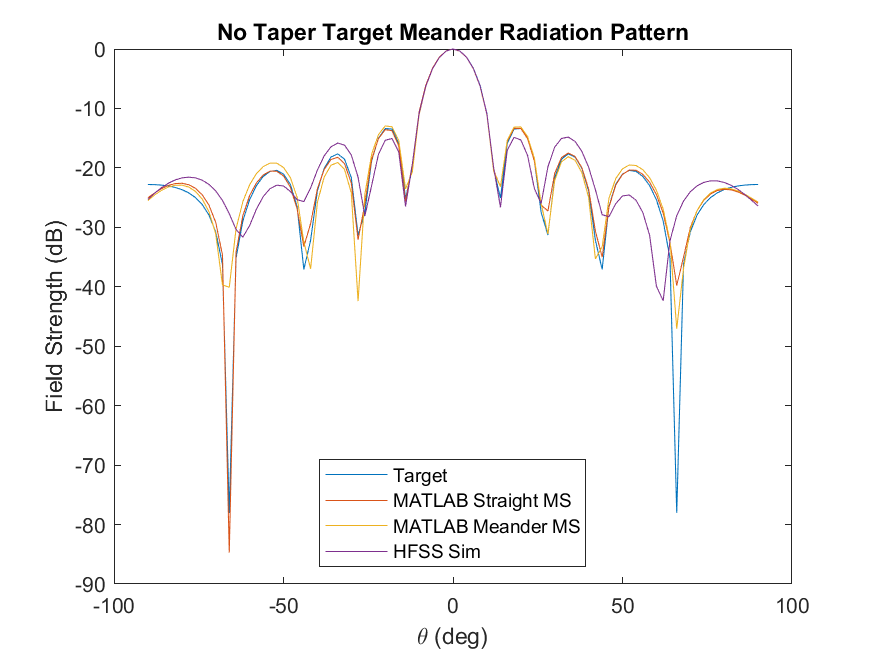
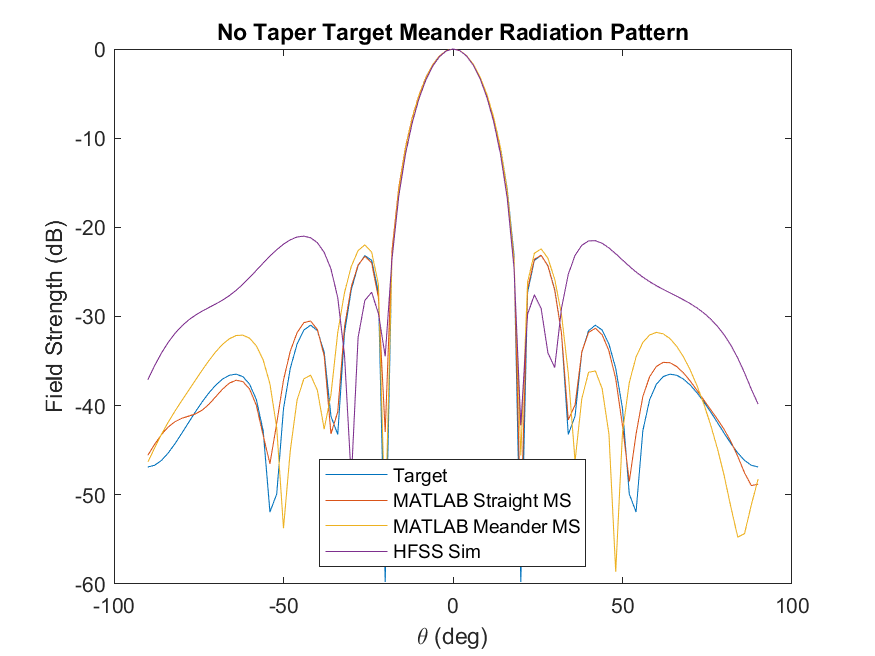
added code to test with cosine taper vals

diff --git a/rad_field_test_optim.m b/rad_field_test_optim.m
@@ -1,0 +1,76 @@
+% CONSTANTS
+Z_0 = 50; % Characteristic Impedance
+Z_targ = 50; % Target Input Impedance
+f = 1e10; % Operating Frequency
+w = 2*pi*f;
+e_0 = 8.8541878188e-12; % Permittivity of Free Space
+u_0 = 4*pi*1e-7; % Permeability of Free Space
+k = w*sqrt(u_0*e_0); % Wavenumber
+C_min = 0.14e-12; % Minimum Capacitance (F)
+X_min = -1 / (w*C_min);
+C_max = 1.1e-12; % Maximum Capacitance (F)
+X_max = -1 / (w*C_max);
+d = 0.00625; % Cell Length (m)
+I_E = 1;
+
+% Extract Element Patterns
+[Etheta,Ephi,~,~] = extractFields("element_patterns/straight_ms_10mm_3-5mm/straight_3-5mm","Phi-Theta");
+[Emtheta,Emphi,theta,phi] = extractFields("element_patterns/2mm_meander_10mm_width/meander_10mm_2mm","Phi-Theta");
+
+% DEFINING TARGET
+E_rl = zeros(1,91);
+E_targ = zeros(1,91);
+
+for n = 1:21
+    E_targ = E_targ + cos(pi*(n-11)/21)*exp(1i*(n-1)*k*d.*sind(theta));
+end
+% COSINE ELEMENT cos(pi*(n-11)/21)*
+E_targ = E_targ./max(E_targ);
+
+% Extract Z params
+[Zm_LL,Zm_LE,Zm_EL,Zm_EE] = extractParams("meander_array_zmatrix/UnitCell_Meander_Array_1D_Array_Meander_10mm_2mm.s21p",Z_0,21,11);
+
+% Define Z matrices
+x0 = 45.*ones(1,20);
+
+[Xs_mat,Z_LL,Z_LE,Z_EL,Z_EE,I_E] = optimSymOut("straight_ms_zmatrix/UnitCell_Meander_Array_1D_Array_Straight_ZMat_3-5mm_ms.s21p",Etheta,E_targ,x0,10,100,I_E,Z_0,21,11);
+Xval = -60;
+Cvals = -1 / (w*Xval) * 1e12 * ones(10,10);
+X_mat = mapLtoC(Xs_mat);
+X_mat = optimSymOut("meander_array_zmatrix/meander_zmat.s21p",Emtheta,E_targ,X_mat,X_min,X_max,I_E,Z_0,21,11);
+C_mat = -1 ./ (w*X_mat) .* 1e12;
+for i = 1:10
+    for j = 1:i
+        Cvals(i,j) = C_mat(j);
+    end
+end
+Cmat = flipHoriz(Cvals);
+Zmat = -1 ./ (w.*Cmat) * 1e12;
+
+% Find E fields
+Etot = zeros(10,91);
+for i = 1:10
+    [Etot(i,:),~,~] = forwardSolve(Zmat(i,:),Zm_LL,Zm_LE,Zm_EL,Zm_EE,I_E,Emtheta);
+end
+
+% Import HFSS Graph
+fields_data = readtable("test/test_fields.csv");
+fields_data_arr = table2array(fields_data);
+theta_vals = fields_data_arr(:,1);
+norm_vals = zeros(91,10);
+
+for i = 1:10
+    norm_vals(:,i) = fields_data_arr(:,12-i);
+end
+
+for i = 1:10
+    plot(theta,20.*log10(abs(Etot(i,:))))
+    hold on
+    plot(theta_vals,20.*log10(norm_vals(:,i)))
+    hold off
+    title("Radiation Pattern State "+i)
+    xlabel("\theta (deg)")
+    ylabel("Field Strength (dB)")
+    legend("MATLAB","HFSS Sim")
+    saveas(gcf,"figures/test_fields/optim_state"+i+".png")
+end

diff --git a/graph_fields.m b/graph_fields.m
@@ -21,7 +21,7 @@ E_rl = zeros(1,91);
 E_targ = zeros(1,91);
 
 for n = 1:21
-    E_targ = E_targ + exp(1i*(n-1)*k*d.*sind(theta));
+    E_targ = E_targ + cos(pi*(n-11)/21)*exp(1i*(n-1)*k*d.*sind(theta));
 end
 % COSINE ELEMENT cos(pi*(n-11)/21)*
 E_targ = E_targ./max(E_targ);
@@ -31,7 +31,7 @@ I_E = 1;
 % [X_L,Z_LL,Z_LE,Z_EL,Z_EE] = loadMat("straight_ms_zmatrix/UnitCell_Meander_Array_1D_Array_Straight_ZMat_3-5mm_ms.s21p", Z_0, Z_targ, f, 10, 100, 21, 11, 0);
 
 %% OPTIMZING FOR LOAD
-x0 = 50.*ones(1,20);
+x0 = 45.*ones(1,20);
 
 [Xs_mat,Z_LL,Z_LE,Z_EL,Z_EE,I_E] = optimSymOut("straight_ms_zmatrix/UnitCell_Meander_Array_1D_Array_Straight_ZMat_3-5mm_ms.s21p",Etheta,E_targ,x0,10,100,I_E,Z_0,21,11);
 [Zm_LL,Zm_LE,Zm_EL,Zm_EE] = extractParams("meander_array_zmatrix/UnitCell_Meander_Array_1D_Array_Meander_10mm_2mm.s21p",Z_0,21,11);
@@ -43,7 +43,7 @@ Cm_mat = -1 ./ (w*Xm_mat) .* 1e12;
 % Xm_mat = zeros(1,20);
 
 %% IMPORT HFSS GRAPH
-fields_data = readtable("sym_const/meander_2mm_sym.csv");
+fields_data = readtable("sym_cos/meander_2mm_cos.csv");
 fields_data_arr = table2array(fields_data);
 theta_vals = fields_data_arr(:,3);
 norm_vals = fields_data_arr(:,4);

diff --git a/export_Cvals.m b/export_Cvals.m
@@ -1,3 +1,10 @@
+% Precalc
+X = 60;
+f = 1e10;
+w = 2*pi*f;
+C = 1 / (w*X);
+
+
 % 1. Open the script file
 vbsFile = 'UpdateCapsDirect.vbs';
 fid = fopen(vbsFile, 'w');
@@ -9,12 +16,14 @@ fprintf(fid, 'Set oProject = oDesktop.GetActiveProject()\n'); % Grabs your open 
 fprintf(fid, 'Set oDesign = oProject.GetActiveDesign()\n');   % Grabs your active window
 
 % 3. Loop through and assign variables directly to that active window
-for i = 1:length(Cm_mat)
+for i = 1:length(C_mat)/2
     varName = sprintf('C%d', i);
-    varValue = sprintf('%gpf', Cm_mat(i)); 
+    varName2 = sprintf('C%d', 21-i);
+    varValue = sprintf('if(State >= %d, %gpf, %gpf)', i, C_mat(i), C); 
     
     % This command targets the selected local design properties explicitly
     fprintf(fid, 'oDesign.SetVariableValue "%s", "%s"\n', varName, varValue);
+    fprintf(fid, 'oDesign.SetVariableValue "%s", "%s"\n', varName2, varValue);
 end
 
 fclose(fid);
